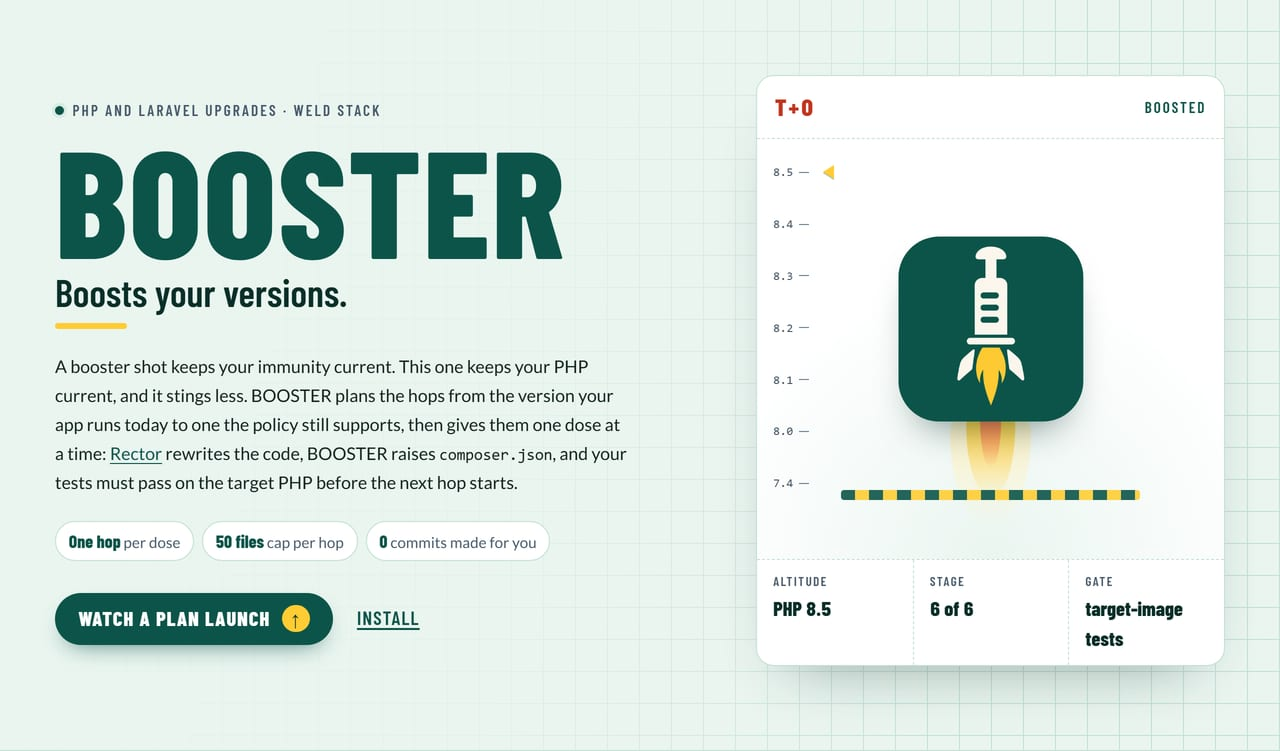
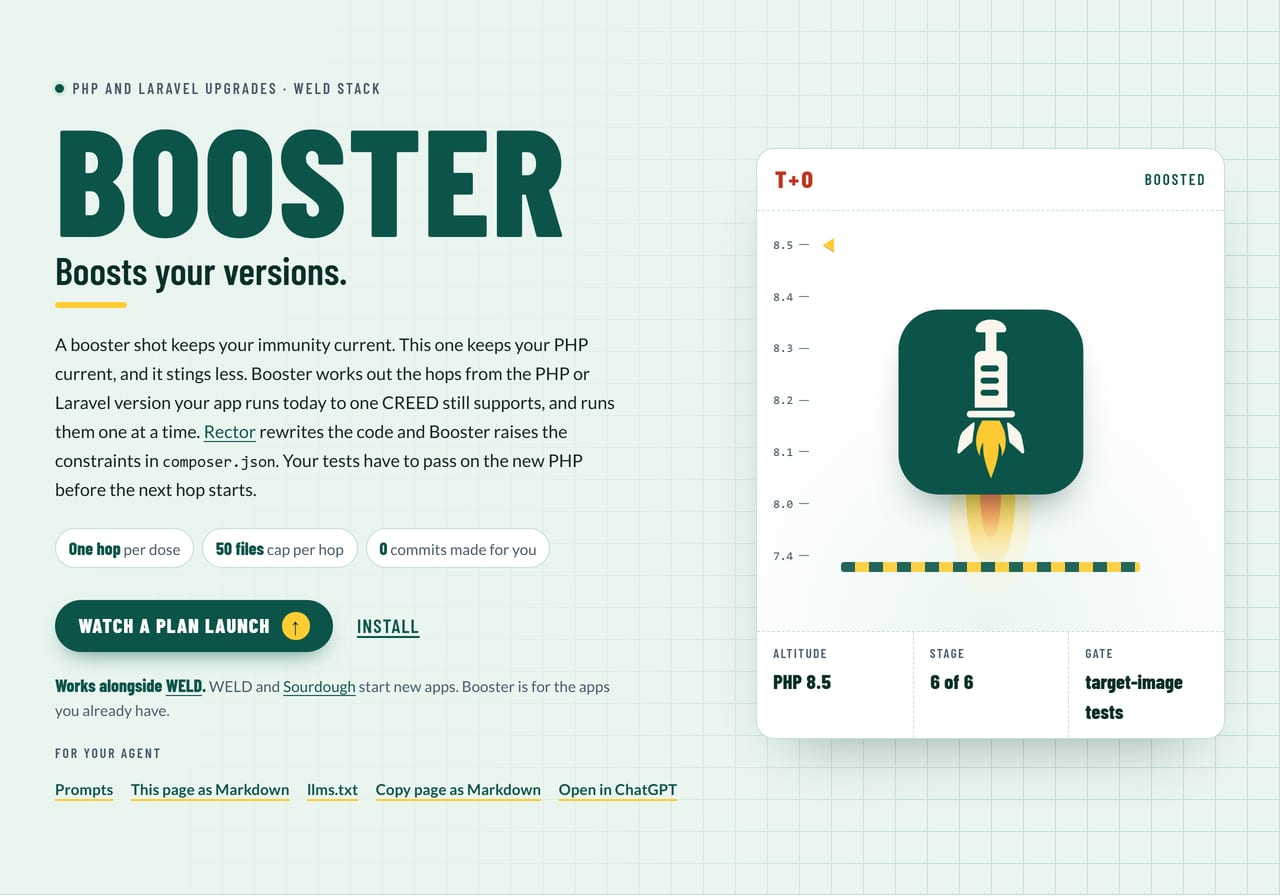
site: plainer voice (voice guide)
Rewrites the front page copy per design/voice.md (WELD pilot ec5c553): same theme, sections, art and motion; claims checked against the README and fixed where they had drifted. Agent-ready twins and README art regenerated.

diff --git a/site/index.html b/site/index.html
@@ -69,7 +69,7 @@
         <p class="label"><span class="label__dot" aria-hidden="true"></span>PHP and Laravel upgrades · WELD stack</p>
         <h1 class="hero__title" id="hero-title">BOOSTER</h1>
         <p class="hero__tagline">Boosts your versions.</p>
-        <p class="hero__blurb">A booster shot keeps your immunity current. This one keeps your PHP current, and it stings less. Booster plans the hops from the version your app runs today to one the policy still supports, then gives them one dose at a time: <a href="https://getrector.com">Rector</a> rewrites the code, Booster raises <code>composer.json</code>, and your tests must pass on the target PHP before the next hop starts.</p>
+        <p class="hero__blurb">A booster shot keeps your immunity current. This one keeps your PHP current, and it stings less. Booster works out the hops from the PHP or Laravel version your app runs today to one CREED still supports, and runs them one at a time. <a href="https://getrector.com">Rector</a> rewrites the code and Booster raises the constraints in <code>composer.json</code>. Your tests have to pass on the new PHP before the next hop starts.</p>
         <ul class="hero__facts">
           <li><strong>One hop</strong> per dose</li>
           <li><strong>50 files</strong> cap per hop</li>
@@ -79,7 +79,7 @@
           <a class="wsu-btn btn-launch" href="#record"><span>Watch a plan launch</span><span class="btn-launch__arrow" aria-hidden="true">↑</span></a>
           <a class="btn-quiet" href="#install">Install</a>
         </p>
-        <p class="hero__weld"><strong>Works alongside <a href="https://weld.apps.wayne.edu/">WELD</a>.</strong> WELD and <a href="https://sourdough.apps.wayne.edu/">Sourdough</a> start new apps; Booster moves the ones you already have to a supported PHP or Laravel, one hop at a time.</p>
+        <p class="hero__weld"><strong>Works alongside <a href="https://weld.apps.wayne.edu/">WELD</a>.</strong> WELD and <a href="https://sourdough.apps.wayne.edu/">Sourdough</a> start new apps. Booster is for the apps you already have.</p>
         <!-- The patient's chart, for the agent: where it reads this page. The script adds Copy page
              as Markdown and Open in ChatGPT; without it, the plain links still work. -->
         <nav class="ar-page hero__agent" aria-labelledby="hero-agent-label" data-ar-page>
@@ -105,7 +105,7 @@
           </ol>
           <span class="pad__marker" aria-hidden="true" data-pad-marker style="--lvl:6"></span>
           <div class="pad__craft" data-pad-craft>
-            <img class="pad__mark" src="brand/booster-avatar-512.png" width="512" height="512" alt="Booster mark: a syringe that is also a rocket, gold flame below">
+            <img class="pad__mark" src="brand/booster-avatar-512.png" width="512" height="512" alt="Booster logo: a syringe that is also a rocket, gold flame below">
             <span class="pad__plume" aria-hidden="true"><span></span><span></span><span></span></span>
           </div>
           <span class="pad__ground" aria-hidden="true"></span>
@@ -129,9 +129,9 @@
       <div class="head head--split">
         <div>
           <p class="label"><span class="label__dot" aria-hidden="true"></span>Dose by dose</p>
-          <h2 id="record-title">Every hop a dose. Every gate a stamp.</h2>
+          <h2 id="record-title">A stamp for each hop that passes.</h2>
         </div>
-        <p class="head__note">This is <code>booster plan</code> for the example apps that ship with Booster, written up the way your doctor would. Pick a patient, then launch.</p>
+        <p class="head__note">These are Booster's plans for the example apps in <code>examples/</code>, written up like a vaccination card. Pick an app and press Run the plan.</p>
       </div>
 
       <div class="record" data-record>
@@ -241,8 +241,8 @@
       <div class="pairs__copy">
         <p class="label"><span class="label__dot" aria-hidden="true"></span>The overlap</p>
         <h2 id="pairs-title">Never on a pair Laravel doesn't support.</h2>
-        <p>Booster interleaves the PHP and Laravel hops so the app sits on a supported pair after every dose: Laravel 10 on PHP 8.1 to 8.3, 11 on 8.2 to 8.4, 12 on 8.2 to 8.5, 13 on 8.3 or newer. A target pair that cannot exist is refused before anything runs.</p>
-        <p>Targets must still be supported by CREED's policy. Passing through PHP 8.1 is fine; stopping there is not:</p>
+        <p>Booster mixes the PHP and Laravel hops so the app is on a supported pair after every hop. Laravel 10 runs on PHP 8.1 to 8.3, 11 on 8.2 to 8.4, 12 on 8.2 to 8.5, 13 on 8.3 or newer. If you ask for a pair that can't exist, Booster refuses before anything runs.</p>
+        <p>The target also has to be one CREED's policy still supports. A plan can pass through PHP 8.1, but it can't stop there:</p>
         <pre class="snip"><span class="snip__p">$</span> bin/booster plan --path=examples/raw-php --to-php=8.1
 Php 8.1 is past security support; pick a version the policy still supports.
 <span class="snip__p">exit 2</span></pre>
@@ -300,7 +300,7 @@ Php 8.1 is past security support; pick a version the policy still supports.
     <div class="wsu-container">
       <div class="head">
         <p class="label"><span class="label__dot" aria-hidden="true"></span>Inside one dose</p>
-        <h2 id="hop-title">Four checks before the next stage fires.</h2>
+        <h2 id="hop-title">Four steps before the next stage fires.</h2>
       </div>
       <ol class="sequence">
         <li class="seq">
@@ -311,7 +311,7 @@ Php 8.1 is past security support; pick a version the policy still supports.
         <li class="seq">
           <span class="seq__t">T−3</span>
           <h3>Rector for real</h3>
-          <p>Only that hop's rules, from Booster's own <code>vendor/</code>, with the hop's PHP target set on purpose. An app on PHP 7.4 is rewritten by a Rector running on 8.3 or newer.</p>
+          <p>Rector runs with only that hop's rules, from Booster's own <code>vendor/</code>. That's how an app on PHP 7.4 gets rewritten by a Rector running on 8.3 or newer.</p>
         </li>
         <li class="seq">
           <span class="seq__t">T−2</span>
@@ -321,10 +321,10 @@ Php 8.1 is past security support; pick a version the policy still supports.
         <li class="seq">
           <span class="seq__t">T−1</span>
           <h3>The gate</h3>
-          <p>Your tests run inside <code>booster-target:&lt;php&gt;</code>, built from <code>docker/Dockerfile</code> on the PHP the hop moves to. Red stops the run and leaves the changes for you to read; <code>git checkout .</code> undoes them.</p>
+          <p>Your tests run inside <code>booster-target:&lt;php&gt;</code>, built from <code>docker/Dockerfile</code> on the PHP the hop moves to. A failure stops the run and leaves the changes for you to read. <code>git checkout .</code> undoes them.</p>
         </li>
       </ol>
-      <p class="sequence__after">Some hops are playbooks, not code: Rector does not read Vue, so <code>vue-2-to-3</code> lists the steps and the official guide, and a person does the work. The PHP 7.4 to 8.0 hop is flagged as the one that needs the most review time.</p>
+      <p class="sequence__after">Not every hop is Rector. <code>node-pin-24</code> and <code>mix-to-vite</code> edit <code>package.json</code> and the build config. <code>vue-2-to-3</code> is a playbook: Rector doesn't read Vue, so Booster lists the steps and the official guide, and a person does the work. The plan also flags PHP 7.4 to 8.0 as the hop that needs the most review.</p>
     </div>
   </section>
 
@@ -332,7 +332,7 @@ Php 8.1 is past security support; pick a version the policy still supports.
   <section class="section section--commands" id="commands" aria-labelledby="commands-title">
     <div class="wsu-container commands">
       <div class="commands__list">
-        <p class="label"><span class="label__dot" aria-hidden="true"></span>Five commands</p>
+        <p class="label"><span class="label__dot" aria-hidden="true"></span>The commands</p>
         <h2 id="commands-title">The whole kit.</h2>
         <div class="cmds" role="tablist" aria-label="Commands">
           <button class="cmd" role="tab" id="tab-detect" aria-controls="out-detect" aria-selected="true" tabindex="0"><span class="cmd__name">detect</span><span class="cmd__does">Which of the five stack shapes, and which versions</span></button>
@@ -341,7 +341,7 @@ Php 8.1 is past security support; pick a version the policy still supports.
           <button class="cmd" role="tab" id="tab-hops" aria-controls="out-hops" aria-selected="false" tabindex="-1"><span class="cmd__name">hops</span><span class="cmd__does">Every hop Booster knows</span></button>
           <button class="cmd" role="tab" id="tab-init" aria-controls="out-init" aria-selected="false" tabindex="-1"><span class="cmd__name">init</span><span class="cmd__does">Writes the coding-tab playbooks to <code>.agents/skills</code></span></button>
         </div>
-        <p class="commands__exits">Exit codes: <strong>0</strong> pass · <strong>1</strong> a hop was capped, errored or failed its gate · <strong>2</strong> bad usage or a target the policy does not support.</p>
+        <p class="commands__exits">There's also <code>scan</code>, which reports what will break on a given PHP and always exits 0. Exit codes: <strong>0</strong> pass · <strong>1</strong> the baseline failed, or a hop was capped, errored or failed its gate · <strong>2</strong> bad usage or a target the policy does not support.</p>
       </div>
 
       <!-- A greenbar printout, tractor-feed holes and all. Output is real
@@ -472,7 +472,7 @@ docker run --rm -v "${PWD}:/booster" -v "/path/to/app:/app" -w /booster php:8.4-
           </div>
           <div class="soon">
             <p class="soon__label"><span class="chip chip--soon">On Packagist</span></p>
-            <p>It's <code>waynestate/booster</code> on Packagist. Booster runs on PHP 8.3 or newer even when the app does not, so give it its own folder: clone it as above, or <code>composer create-project waynestate/booster booster ^0.1</code>.</p>
+            <p>It's <code>waynestate/booster</code> on Packagist. Give it its own folder, not your app's <code>vendor/</code>, because it needs PHP 8.3 even when your app doesn't. Clone it as above, or run <code>composer create-project waynestate/booster booster ^0.1</code>.</p>
           </div>
         </div>
       </div>
@@ -493,7 +493,7 @@ docker run --rm -v "${PWD}:/booster" -v "/path/to/app:/app" -w /booster php:8.4-
           <p class="label"><span class="label__dot" aria-hidden="true"></span>For your coding agent</p>
           <h2 id="agents-title">Standing orders.</h2>
         </div>
-        <p class="head__note">Prompts for the coding agent you already use. Copy one, or run it straight in OpenCode, Claude Code, Codex or ChatGPT. Every order starts with a plan that changes nothing, and none of them lets the agent commit for you.</p>
+        <p class="head__note">Six prompts for whatever coding agent you use: one to get started, then one for each app shape. Copy one, or open it in OpenCode, Claude Code, Codex or ChatGPT. Each starts with a plan that changes nothing, and none of them lets the agent commit for you.</p>
       </div>
 
       <div class="orders">
@@ -503,7 +503,7 @@ docker run --rm -v "${PWD}:/booster" -v "/path/to/app:/app" -w /booster php:8.4-
             <div>
               <p class="ar-prompt__kicker">Order B-1 · Any stack app</p>
               <h3 class="ar-prompt__title" id="prompt-get-started-title">Get started with Booster</h3>
-              <p class="ar-prompt__desc">Install Booster beside the app, read its shape and versions, and bring back the plan. Not a single file changes.</p>
+              <p class="ar-prompt__desc">Clones Booster next to your app, runs <code>detect</code> and <code>plan</code>, and reports back. Nothing in your app changes.</p>
             </div>
           </header>
           <pre class="ar-prompt__text"><code>You are a coding agent planning a PHP and Laravel upgrade with Booster, for the app in this folder, at Wayne State University. Booster is the upgrade tool of WELD, the Wayne State application stack: it plans the hops from the versions the app runs today to ones CREED's version policy still supports, and runs them one at a time on Rector, with the app's own tests as the gate on each hop.
@@ -535,7 +535,7 @@ Output: the shape and versions, the plan as a numbered list, the warnings and sc
             <div>
               <p class="ar-prompt__kicker">Order B-2 · Raw PHP</p>
               <h3 class="ar-prompt__title" id="prompt-raw-php-title">Upgrade a raw PHP app</h3>
-              <p class="ar-prompt__desc">PHP one minor at a time, a scan of what will break, a dry run, then the real run with the gate.</p>
+              <p class="ar-prompt__desc">Plans the PHP hops, scans for what will break and does a dry run. The real run waits until you say so.</p>
             </div>
           </header>
           <pre class="ar-prompt__text"><code>You are a coding agent upgrading a raw PHP app (no framework, no Vue) at Wayne State University with Booster, the upgrade tool of WELD, the Wayne State application stack.
@@ -565,7 +565,7 @@ Output: the plan, the scan findings, the dry-run summary per hop, then your ques
             <div>
               <p class="ar-prompt__kicker">Order B-3 · Raw PHP with a Vue SPA</p>
               <h3 class="ar-prompt__title" id="prompt-raw-php-vue-title">Upgrade a raw PHP app with a Vue front end</h3>
-              <p class="ar-prompt__desc">The PHP hops, the Node pin, and the Vue 2 to 3 playbook a person works through.</p>
+              <p class="ar-prompt__desc">Plans the PHP hops and the Node pin, and lists the Vue 2 to 3 steps for a person to work through.</p>
             </div>
           </header>
           <pre class="ar-prompt__text"><code>You are a coding agent upgrading a raw PHP app with a Vue single-page front end at Wayne State University with Booster, the upgrade tool of WELD, the Wayne State application stack.
@@ -678,7 +678,7 @@ Constraints:
 Output: the plan sorted by kind, the Inertia checks per Laravel hop, the dry-run summary, then your questions.</code></pre>
         </section>
 
-        <p class="orders__fine">The agent reads the same pages you do: <a href="llms.txt">llms.txt</a> lists them, <a href="llms-full.txt">llms-full.txt</a> holds them all in one file, and this page has a <a href="index.md" type="text/markdown">Markdown twin</a>. Nothing here phones home; the buttons only copy text or open the tool you picked. Take as directed.</p>
+        <p class="orders__fine">The agent reads the same pages you do: <a href="llms.txt">llms.txt</a> lists them, <a href="llms-full.txt">llms-full.txt</a> holds them all in one file, and this page has a <a href="index.md" type="text/markdown">Markdown twin</a>. Nothing here phones home. The buttons only copy text or open the tool you picked.</p>
       </div>
     </div>
   </section>
@@ -693,10 +693,10 @@ Output: the plan sorted by kind, the Inertia checks per Laravel hop, the dry-run
       </div>
       <ul class="never">
         <li><span class="never__x" aria-hidden="true"></span><h3>Commit, push or open a merge request</h3><p>It edits the working copy and prints a report. A person reads the diff and merges it.</p></li>
-        <li><span class="never__x" aria-hidden="true"></span><h3>Start on a dirty tree</h3><p><code>run</code> refuses a working copy that is not under git or has uncommitted changes, so the upgrade diff stands alone. <code>--allow-dirty</code> if you must.</p></li>
+        <li><span class="never__x" aria-hidden="true"></span><h3>Start on a dirty tree</h3><p><code>run</code> refuses a working copy that is not under git or has uncommitted changes, so the upgrade diff stands alone. Pass <code>--allow-dirty</code> if you must.</p></li>
         <li><span class="never__x" aria-hidden="true"></span><h3>Aim at an unsupported version</h3><p>An end-of-life target is refused; a security-only one comes with a warning. The dates come from CREED's <code>policy.json</code>, never from Booster's code.</p></li>
-        <li><span class="never__x" aria-hidden="true"></span><h3>Run <code>composer update</code></h3><p>It raises constraints. Resolving them is your call.</p></li>
-        <li><span class="never__x" aria-hidden="true"></span><h3>Pass quietly</h3><p>An unreadable policy, broken JSON, missing Docker or a Rector error fails closed with exit 1 or 2.</p></li>
+        <li><span class="never__x" aria-hidden="true"></span><h3>Run <code>composer update</code></h3><p>It raises the constraints and stops there. You decide when to resolve them.</p></li>
+        <li><span class="never__x" aria-hidden="true"></span><h3>Pass quietly</h3><p>An unreadable policy, broken JSON, missing Docker or a Rector error stops the run with exit 1 or 2.</p></li>
         <li><span class="never__x" aria-hidden="true"></span><h3>Trust your file names</h3><p>Subprocesses take argument arrays, and control characters are stripped from everything printed. It reads no secrets and makes no network calls of its own.</p></li>
       </ul>
     </div>
@@ -715,17 +715,17 @@ Output: the plan sorted by kind, the Inertia checks per Laravel hop, the dry-run
       <ul class="team">
         <li class="member"><span class="member__mark member__mark--tile"><img src="assets/marks/wayneui.svg" width="40" height="40" alt=""></span><span class="member__name"><a class="part-link" href="https://wayneui.apps.wayne.edu/">WayneUI</a></span><span class="member__role">The interface layer under everything, this page included.</span></li>
         <li class="member"><span class="member__mark"><img src="assets/marks/creed.png" width="56" height="56" alt=""></span><span class="member__name"><a class="part-link" href="https://creed.apps.wayne.edu/">CREED</a></span><span class="member__role">Writes the version policy Booster reads.</span></li>
-        <li class="member"><span class="member__mark"><img src="assets/marks/proctor.png" width="56" height="56" alt=""></span><span class="member__name"><a class="part-link" href="https://proctor.apps.wayne.edu/">PROCTOR</a></span><span class="member__role">Measures an app against that policy; can ride in the gate.</span></li>
+        <li class="member"><span class="member__mark"><img src="assets/marks/proctor.png" width="56" height="56" alt=""></span><span class="member__name"><a class="part-link" href="https://proctor.apps.wayne.edu/">PROCTOR</a></span><span class="member__role">Checks an app against that policy. Booster can run it in the gate with <code>--proctor-command</code>.</span></li>
         <li class="member"><span class="member__mark"><img src="assets/marks/preflight.png" width="56" height="56" alt=""></span><span class="member__name"><a class="part-link" href="https://preflight.apps.wayne.edu/">Preflight</a></span><span class="member__role">The CI templates Booster's own checks run on.</span></li>
         <li class="member"><span class="member__mark"><img src="assets/marks/sesame.png" width="56" height="56" alt=""></span><span class="member__name"><a class="part-link" href="https://sesame.apps.wayne.edu/">SESAME</a></span><span class="member__role">Sign-in; <code>--sesame</code> moves wayne-cas apps to it.</span></li>
-        <li class="member"><span class="member__mark"><img src="assets/marks/helmet.png" width="56" height="56" alt=""></span><span class="member__name"><a class="part-link" href="https://helmet.apps.wayne.edu/">HELMET</a></span><span class="member__role">The baseline runtime and its headers.</span></li>
-        <li class="member"><span class="member__mark"><img src="assets/marks/pinstripe.png" width="56" height="56" alt=""></span><span class="member__name"><a class="part-link" href="https://pinstripe.apps.wayne.edu/">Pinstripe</a></span><span class="member__role">The coding standard Booster is held to.</span></li>
-        <li class="member"><span class="member__mark"><img src="assets/marks/sourdough.png" width="56" height="56" alt=""></span><span class="member__name"><a class="part-link" href="https://sourdough.apps.wayne.edu/">Sourdough</a></span><span class="member__role">Starters that are born current.</span></li>
-        <li class="member"><span class="member__mark"><img src="assets/marks/weld.png" width="56" height="56" alt=""></span><span class="member__name"><a class="part-link" href="https://weld.apps.wayne.edu/">WELD</a></span><span class="member__role">The whole stack, joined. Booster keeps it current.</span></li>
+        <li class="member"><span class="member__mark"><img src="assets/marks/helmet.png" width="56" height="56" alt=""></span><span class="member__name"><a class="part-link" href="https://helmet.apps.wayne.edu/">HELMET</a></span><span class="member__role">Security headers and session hardening.</span></li>
+        <li class="member"><span class="member__mark"><img src="assets/marks/pinstripe.png" width="56" height="56" alt=""></span><span class="member__name"><a class="part-link" href="https://pinstripe.apps.wayne.edu/">Pinstripe</a></span><span class="member__role">The code style. Booster's PHPStan config is a copy of its raw preset.</span></li>
+        <li class="member"><span class="member__mark"><img src="assets/marks/sourdough.png" width="56" height="56" alt=""></span><span class="member__name"><a class="part-link" href="https://sourdough.apps.wayne.edu/">Sourdough</a></span><span class="member__role">Starts new raw PHP apps on current versions.</span></li>
+        <li class="member"><span class="member__mark"><img src="assets/marks/weld.png" width="56" height="56" alt=""></span><span class="member__name"><a class="part-link" href="https://weld.apps.wayne.edu/">WELD</a></span><span class="member__role">The Laravel and Vue starter, with the stack already installed.</span></li>
         <li class="member member--self"><span class="member__mark"><img src="brand/booster-avatar-256.png" width="56" height="56" alt=""></span><span class="member__name">Booster</span><span class="member__role">Moves apps forward, one dose at a time.</span><span class="member__here">You are here</span></li>
         <li class="member"><span class="member__mark"><img src="assets/marks/squire.png" width="56" height="56" alt=""></span><span class="member__name"><a class="part-link" href="https://squire.apps.wayne.edu/">Squire</a></span><span class="member__role">Carries the release out the door.</span></li>
         <li class="member"><span class="member__mark"><img src="assets/marks/rollcall.png" width="56" height="56" alt=""></span><span class="member__name"><a class="part-link" href="https://rollcall.apps.wayne.edu/">Rollcall</a></span><span class="member__role">Every app answers “present”, with its PHP version.</span></li>
-        <li class="member"><span class="member__mark"><img src="assets/marks/advisor.png" width="56" height="56" alt=""></span><span class="member__name"><a class="part-link" href="https://advisor.apps.wayne.edu/">ADVISOR</a></span><span class="member__role">Ask what applies to your app, and what to do next.</span></li>
+        <li class="member"><span class="member__mark"><img src="assets/marks/advisor.png" width="56" height="56" alt=""></span><span class="member__name"><a class="part-link" href="https://advisor.apps.wayne.edu/">ADVISOR</a></span><span class="member__role">An MCP server your agent can ask about the stack.</span></li>
         <li class="member"><span class="member__mark"><img src="assets/marks/drawbridge.png" width="56" height="56" alt=""></span><span class="member__name"><a class="part-link" href="https://drawbridge.apps.wayne.edu/">Drawbridge</a></span><span class="member__role">The sign-in gateway, lowered on request.</span></li>
       </ul>
     </div>
@@ -737,7 +737,7 @@ Output: the plan sorted by kind, the Inertia checks per Laravel hop, the dry-run
       <div>
         <p class="label"><span class="label__dot" aria-hidden="true"></span>Version 0.1</p>
         <h2 id="next-title">Not yet given.</h2>
-        <p>The plumbing is proven on the example apps; the hit rate on real apps is not measured yet. What is still to come, from <a href="https://github.com/waynestate/booster/blob/main/OPEN_QUESTIONS.md">OPEN_QUESTIONS.md</a>:</p>
+        <p>The example apps prove the plumbing. We haven't measured how much Rector fixes on real apps yet, and the Docker gate hasn't run on a real app. Still to come, from <a href="https://github.com/waynestate/booster/blob/main/OPEN_QUESTIONS.md">OPEN_QUESTIONS.md</a>:</p>
       </div>
       <ul class="schedule">
         <li><span class="chip chip--soon">Coming soon</span> <span>A published PHAR, so Booster is one file you download (you can build it from a checkout today)</span></li>

diff --git a/site/index.md b/site/index.md
@@ -12,7 +12,7 @@ PHP and Laravel upgrades · WELD stack
 
 Boosts your versions.
 
-A booster shot keeps your immunity current. This one keeps your PHP current, and it stings less. Booster plans the hops from the version your app runs today to one the policy still supports, then gives them one dose at a time: [Rector](https://getrector.com) rewrites the code, Booster raises `composer.json`, and your tests must pass on the target PHP before the next hop starts.
+A booster shot keeps your immunity current. This one keeps your PHP current, and it stings less. Booster works out the hops from the PHP or Laravel version your app runs today to one CREED still supports, and runs them one at a time. [Rector](https://getrector.com) rewrites the code and Booster raises the constraints in `composer.json`. Your tests have to pass on the new PHP before the next hop starts.
 
 - **One hop** per dose
 - **50 files** cap per hop
@@ -20,9 +20,9 @@ A booster shot keeps your immunity current. This one keeps your PHP current, and
 
 [Watch a plan launch](https://booster.apps.wayne.edu/#record) [Install](https://booster.apps.wayne.edu/#install)
 
-**Works alongside [WELD](https://weld.apps.wayne.edu/).** WELD and [Sourdough](https://sourdough.apps.wayne.edu/) start new apps; Booster moves the ones you already have to a supported PHP or Laravel, one hop at a time.
+**Works alongside [WELD](https://weld.apps.wayne.edu/).** WELD and [Sourdough](https://sourdough.apps.wayne.edu/) start new apps. Booster is for the apps you already have.
 
-![Booster mark: a syringe that is also a rocket, gold flame below](https://booster.apps.wayne.edu/brand/booster-avatar-512.png)
+![Booster logo: a syringe that is also a rocket, gold flame below](https://booster.apps.wayne.edu/brand/booster-avatar-512.png)
 
 - **Altitude**: PHP 8.5
 - **Stage**: 6 of 6
@@ -30,9 +30,9 @@ A booster shot keeps your immunity current. This one keeps your PHP current, and
 
 Dose by dose
 
-## Every hop a dose. Every gate a stamp.
+## A stamp for each hop that passes.
 
-This is `booster plan` for the example apps that ship with Booster, written up the way your doctor would. Pick a patient, then launch.
+These are Booster's plans for the example apps in `examples/`, written up like a vaccination card. Pick an app and press Run the plan.
 
 Form B-01 · Version immunization record
 
@@ -56,9 +56,9 @@ The overlap
 
 ## Never on a pair Laravel doesn't support.
 
-Booster interleaves the PHP and Laravel hops so the app sits on a supported pair after every dose: Laravel 10 on PHP 8.1 to 8.3, 11 on 8.2 to 8.4, 12 on 8.2 to 8.5, 13 on 8.3 or newer. A target pair that cannot exist is refused before anything runs.
+Booster mixes the PHP and Laravel hops so the app is on a supported pair after every hop. Laravel 10 runs on PHP 8.1 to 8.3, 11 on 8.2 to 8.4, 12 on 8.2 to 8.5, 13 on 8.3 or newer. If you ask for a pair that can't exist, Booster refuses before anything runs.
 
-Targets must still be supported by CREED's policy. Passing through PHP 8.1 is fine; stopping there is not:
+The target also has to be one CREED's policy still supports. A plan can pass through PHP 8.1, but it can't stop there:
 
 ```
 $ bin/booster plan --path=examples/raw-php --to-php=8.1
@@ -72,28 +72,28 @@ Grid of Laravel versions 10 to 13 against PHP 8.1 to 8.5. The path starts at Lar
 
 Inside one dose
 
-## Four checks before the next stage fires.
+## Four steps before the next stage fires.
 
 1. T−4
    ### Dry run and cap
    Rector previews the hop. If it reports errors, or wants to change more files than `--max-changes` (50 by default), the run stops before anything is written.
 2. T−3
    ### Rector for real
-   Only that hop's rules, from Booster's own `vendor/`, with the hop's PHP target set on purpose. An app on PHP 7.4 is rewritten by a Rector running on 8.3 or newer.
+   Rector runs with only that hop's rules, from Booster's own `vendor/`. That's how an app on PHP 7.4 gets rewritten by a Rector running on 8.3 or newer.
 3. T−2
    ### Raise the constraint
    The `php` or `laravel/framework` constraint in `composer.json` goes up, and `config.platform.php` moves with it. Booster never runs `composer update`.
 4. T−1
    ### The gate
-   Your tests run inside `booster-target:<php>`, built from `docker/Dockerfile` on the PHP the hop moves to. Red stops the run and leaves the changes for you to read; `git checkout .` undoes them.
+   Your tests run inside `booster-target:<php>`, built from `docker/Dockerfile` on the PHP the hop moves to. A failure stops the run and leaves the changes for you to read. `git checkout .` undoes them.
 
-Some hops are playbooks, not code: Rector does not read Vue, so `vue-2-to-3` lists the steps and the official guide, and a person does the work. The PHP 7.4 to 8.0 hop is flagged as the one that needs the most review time.
+Not every hop is Rector. `node-pin-24` and `mix-to-vite` edit `package.json` and the build config. `vue-2-to-3` is a playbook: Rector doesn't read Vue, so Booster lists the steps and the official guide, and a person does the work. The plan also flags PHP 7.4 to 8.0 as the hop that needs the most review.
 
-Five commands
+The commands
 
 ## The whole kit.
 
-Exit codes: **0** pass · **1** a hop was capped, errored or failed its gate · **2** bad usage or a target the policy does not support.
+There's also `scan`, which reports what will break on a given PHP and always exits 0. Exit codes: **0** pass · **1** the baseline failed, or a hop was capped, errored or failed its gate · **2** bad usage or a target the policy does not support.
 
 **detectWhich of the five stack shapes, and which versions**
 
@@ -160,17 +160,17 @@ The one-shot form, for a forced image upgrade
 
 On Packagist
 
-It's `waynestate/booster` on Packagist. Booster runs on PHP 8.3 or newer even when the app does not, so give it its own folder: clone it as above, or `composer create-project waynestate/booster booster ^0.1`.
+It's `waynestate/booster` on Packagist. Give it its own folder, not your app's `vendor/`, because it needs PHP 8.3 even when your app doesn't. Clone it as above, or run `composer create-project waynestate/booster booster ^0.1`.
 
 For your coding agent
 
 ## Standing orders.
 
-Prompts for the coding agent you already use. Copy one, or run it straight in OpenCode, Claude Code, Codex or ChatGPT. Every order starts with a plan that changes nothing, and none of them lets the agent commit for you.
+Six prompts for whatever coding agent you use: one to get started, then one for each app shape. Copy one, or open it in OpenCode, Claude Code, Codex or ChatGPT. Each starts with a plan that changes nothing, and none of them lets the agent commit for you.
 
 ### Get started with Booster
 
-Install Booster beside the app, read its shape and versions, and bring back the plan. Not a single file changes.
+Clones Booster next to your app, runs `detect` and `plan`, and reports back. Nothing in your app changes.
 
 A prompt for your coding agent. Copy it as it stands:
 
@@ -200,7 +200,7 @@ Output: the shape and versions, the plan as a numbered list, the warnings and sc
 
 ### Upgrade a raw PHP app
 
-PHP one minor at a time, a scan of what will break, a dry run, then the real run with the gate.
+Plans the PHP hops, scans for what will break and does a dry run. The real run waits until you say so.
 
 A prompt for your coding agent. Copy it as it stands:
 
@@ -228,7 +228,7 @@ Output: the plan, the scan findings, the dry-run summary per hop, then your ques
 
 ### Upgrade a raw PHP app with a Vue front end
 
-The PHP hops, the Node pin, and the Vue 2 to 3 playbook a person works through.
+Plans the PHP hops and the Node pin, and lists the Vue 2 to 3 steps for a person to work through.
 
 A prompt for your coding agent. Copy it as it stands:
 
@@ -337,7 +337,7 @@ Constraints:
 Output: the plan sorted by kind, the Inertia checks per Laravel hop, the dry-run summary, then your questions.
 ```
 
-The agent reads the same pages you do: [llms.txt](https://booster.apps.wayne.edu/llms.txt) lists them, [llms-full.txt](https://booster.apps.wayne.edu/llms-full.txt) holds them all in one file, and this page has a [Markdown twin](https://booster.apps.wayne.edu/index.md). Nothing here phones home; the buttons only copy text or open the tool you picked. Take as directed.
+The agent reads the same pages you do: [llms.txt](https://booster.apps.wayne.edu/llms.txt) lists them, [llms-full.txt](https://booster.apps.wayne.edu/llms-full.txt) holds them all in one file, and this page has a [Markdown twin](https://booster.apps.wayne.edu/index.md). Nothing here phones home. The buttons only copy text or open the tool you picked.
 
 Contraindications
 
@@ -348,13 +348,13 @@ Side effects are limited to the diff in your working copy. Read it, then merge i
 - ### Commit, push or open a merge request
   It edits the working copy and prints a report. A person reads the diff and merges it.
 - ### Start on a dirty tree
-  `run` refuses a working copy that is not under git or has uncommitted changes, so the upgrade diff stands alone. `--allow-dirty` if you must.
+  `run` refuses a working copy that is not under git or has uncommitted changes, so the upgrade diff stands alone. Pass `--allow-dirty` if you must.
 - ### Aim at an unsupported version
   An end-of-life target is refused; a security-only one comes with a warning. The dates come from CREED's `policy.json`, never from Booster's code.
 - ### Run `composer update`
-  It raises constraints. Resolving them is your call.
+  It raises the constraints and stops there. You decide when to resolve them.
 - ### Pass quietly
-  An unreadable policy, broken JSON, missing Docker or a Rector error fails closed with exit 1 or 2.
+  An unreadable policy, broken JSON, missing Docker or a Rector error stops the run with exit 1 or 2.
 - ### Trust your file names
   Subprocesses take argument arrays, and control characters are stripped from everything printed. It reads no secrets and makes no network calls of its own.
 
@@ -366,24 +366,24 @@ WELD is the Wayne State application stack. Booster is its upgrade layer, and it 
 
 - [WayneUI](https://wayneui.apps.wayne.edu/)The interface layer under everything, this page included.
 - [CREED](https://creed.apps.wayne.edu/)Writes the version policy Booster reads.
-- [PROCTOR](https://proctor.apps.wayne.edu/)Measures an app against that policy; can ride in the gate.
+- [PROCTOR](https://proctor.apps.wayne.edu/)Checks an app against that policy. Booster can run it in the gate with `--proctor-command`.
 - [Preflight](https://preflight.apps.wayne.edu/)The CI templates Booster's own checks run on.
 - [SESAME](https://sesame.apps.wayne.edu/)Sign-in; `--sesame` moves wayne-cas apps to it.
-- [HELMET](https://helmet.apps.wayne.edu/)The baseline runtime and its headers.
-- [Pinstripe](https://pinstripe.apps.wayne.edu/)The coding standard Booster is held to.
-- [Sourdough](https://sourdough.apps.wayne.edu/)Starters that are born current.
-- [WELD](https://weld.apps.wayne.edu/)The whole stack, joined. Booster keeps it current.
+- [HELMET](https://helmet.apps.wayne.edu/)Security headers and session hardening.
+- [Pinstripe](https://pinstripe.apps.wayne.edu/)The code style. Booster's PHPStan config is a copy of its raw preset.
+- [Sourdough](https://sourdough.apps.wayne.edu/)Starts new raw PHP apps on current versions.
+- [WELD](https://weld.apps.wayne.edu/)The Laravel and Vue starter, with the stack already installed.
 - BoosterMoves apps forward, one dose at a time.You are here
 - [Squire](https://squire.apps.wayne.edu/)Carries the release out the door.
 - [Rollcall](https://rollcall.apps.wayne.edu/)Every app answers “present”, with its PHP version.
-- [ADVISOR](https://advisor.apps.wayne.edu/)Ask what applies to your app, and what to do next.
+- [ADVISOR](https://advisor.apps.wayne.edu/)An MCP server your agent can ask about the stack.
 - [Drawbridge](https://drawbridge.apps.wayne.edu/)The sign-in gateway, lowered on request.
 
 Version 0.1
 
 ## Not yet given.
 
-The plumbing is proven on the example apps; the hit rate on real apps is not measured yet. What is still to come, from [OPEN_QUESTIONS.md](https://github.com/waynestate/booster/blob/main/OPEN_QUESTIONS.md):
+The example apps prove the plumbing. We haven't measured how much Rector fixes on real apps yet, and the Docker gate hasn't run on a real app. Still to come, from [OPEN_QUESTIONS.md](https://github.com/waynestate/booster/blob/main/OPEN_QUESTIONS.md):
 
 - Coming soon A published PHAR, so Booster is one file you download (you can build it from a checkout today)
 - Coming soon `booster mcp`, a read-only tool server
